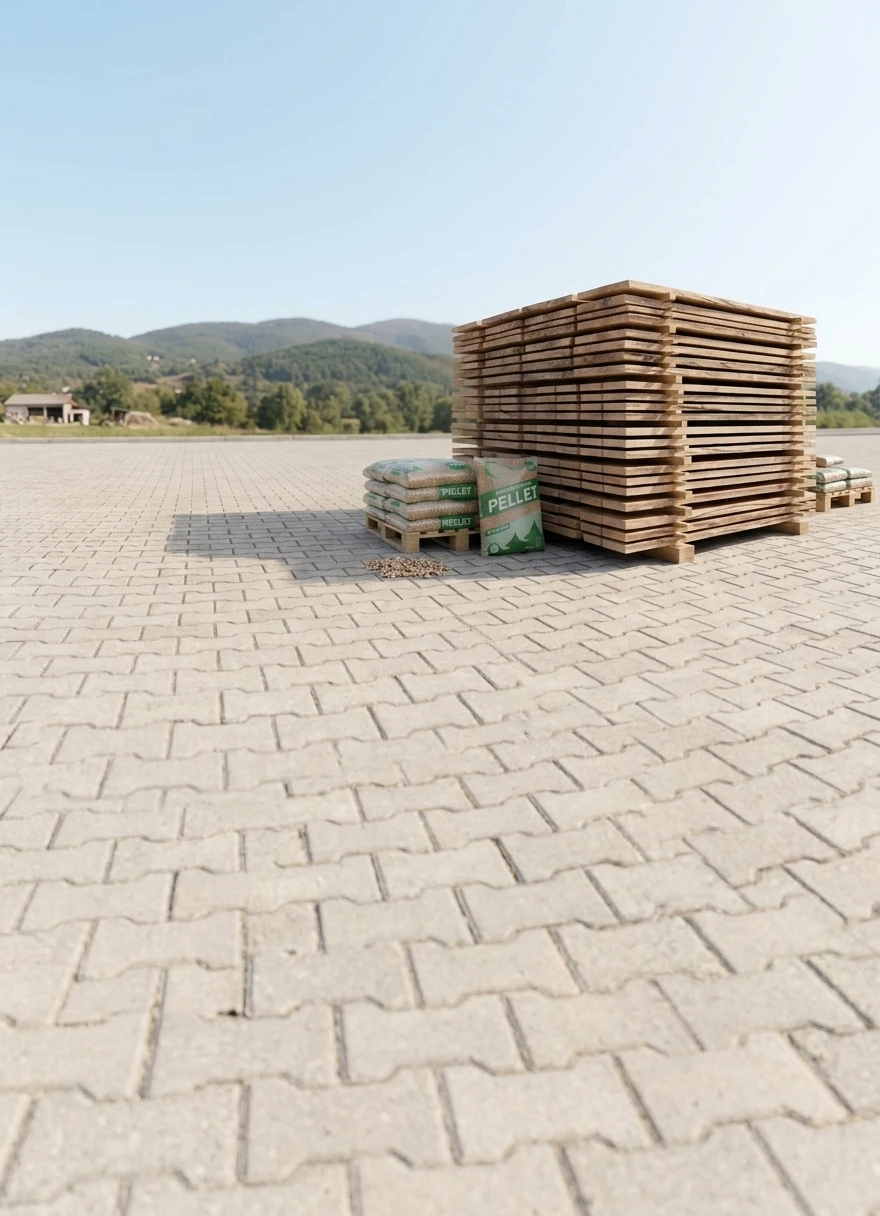
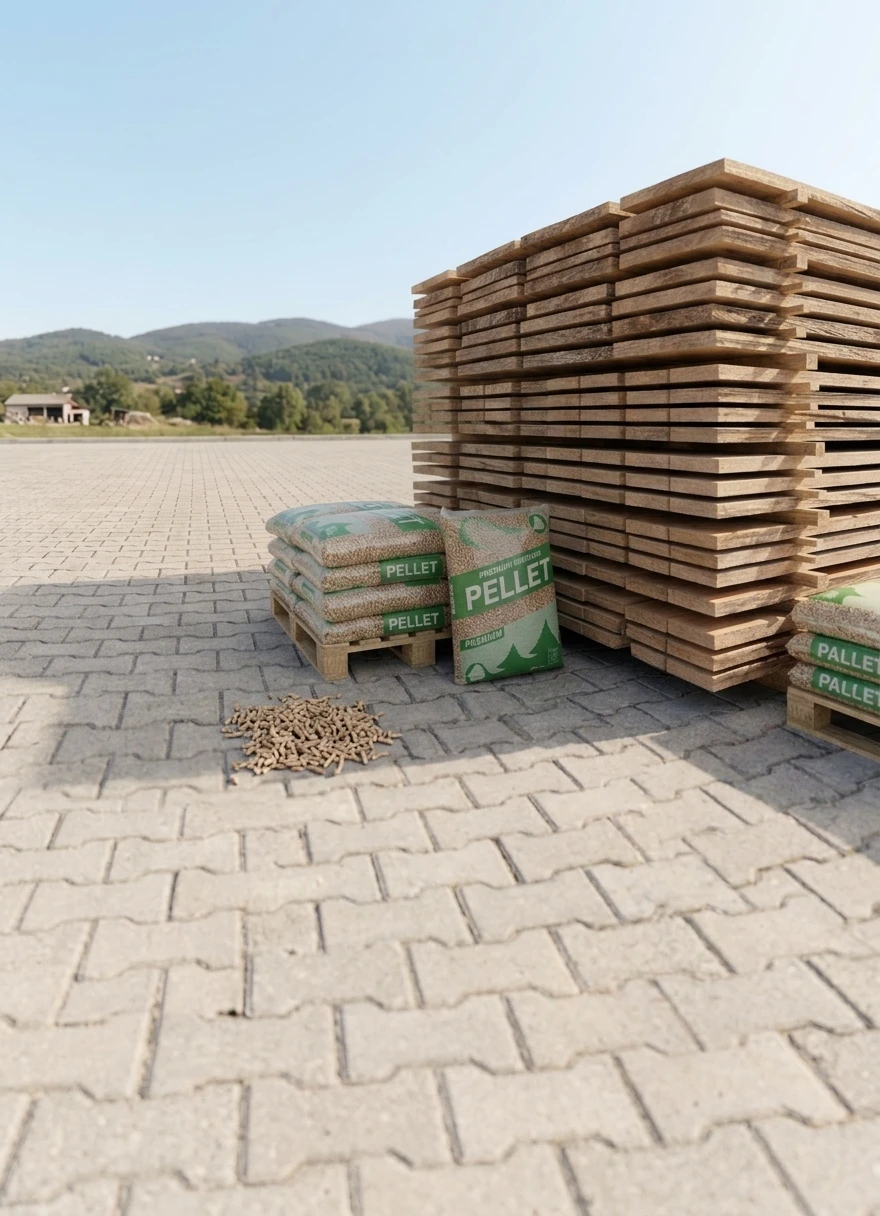
Remove rings strip, new mobile hero image
Claude-Session: https://claude.ai/code/session_01TpSHNZmHSJ2sv1gmc8GLdY

diff --git a/src/styles/global.css b/src/styles/global.css
@@ -82,9 +82,6 @@ p { margin: 0; }
 
 /* Hero (home) */
 .hero .hero-img { object-position: right center; top: 0 !important; height: 100% !important; transform: none !important; }
-.rings-strip { height: 100px; position: relative; background: var(--stone); overflow: hidden; }
-@media (max-width: 700px) { .rings-strip { height: 64px; } }
-.rings-strip::before { content: ''; position: absolute; inset: 0; background: url(/godovi-pattern.webp) center / 300px repeat; opacity: .1; }
 .hero { position: relative; height: 660px; overflow: hidden; background: var(--green-dark); color: #fff; }
 .cover { position: absolute; inset: 0; width: 100%; height: 100%; object-fit: cover; }
 /* Parallax: the photo is taller than its section and moves slower than the page (see Base.astro) */
@@ -104,7 +101,7 @@ p { margin: 0; }
 .band h2 { font-size: 40px; }
 .band p { color: rgba(255,255,255,.9); }
 .band a:not(.btn) { color: #fff; }
-.story { border-top: 0; }
+.story { border-top: 100px solid var(--stone); }
 .story .band-inner { padding-top: 112px; padding-bottom: 104px; display: flex; flex-direction: column; align-items: center; text-align: center; gap: 16px; }
 .story p { font-size: 19px; }
 .cta .band-inner { padding-top: 96px; padding-bottom: 96px; display: flex; flex-direction: column; align-items: center; text-align: center; gap: 18px; }
